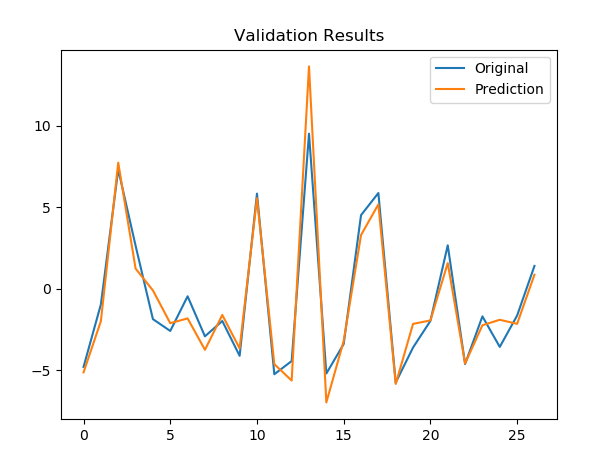
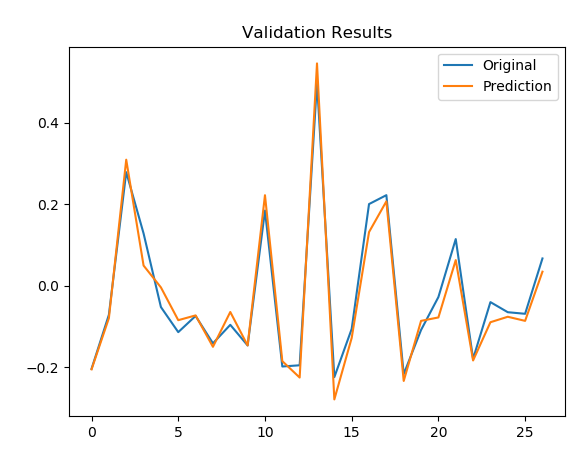
edited LSTM1 file

Changed region(s): [[0.0308, 0.0615, 0.9863, 0.9846]]

diff --git a/_posts/2018-07-30-LSTM1.md b/_posts/2018-07-30-LSTM1.md
@@ -50,7 +50,7 @@ def load_data(fname=path + "/airplane.csv"):
     # DataFrame에서 np.array로 바꿔줌: shape = (144, )
     data = dataset.values.reshape(-1)
     # Data Normalize
-    data_dn = (data - np.mean(data)) / (np.std(data) / 5)
+    data_dn = (data - np.mean(data)) / np.std(data) / 5
     return data_dn
 
 
